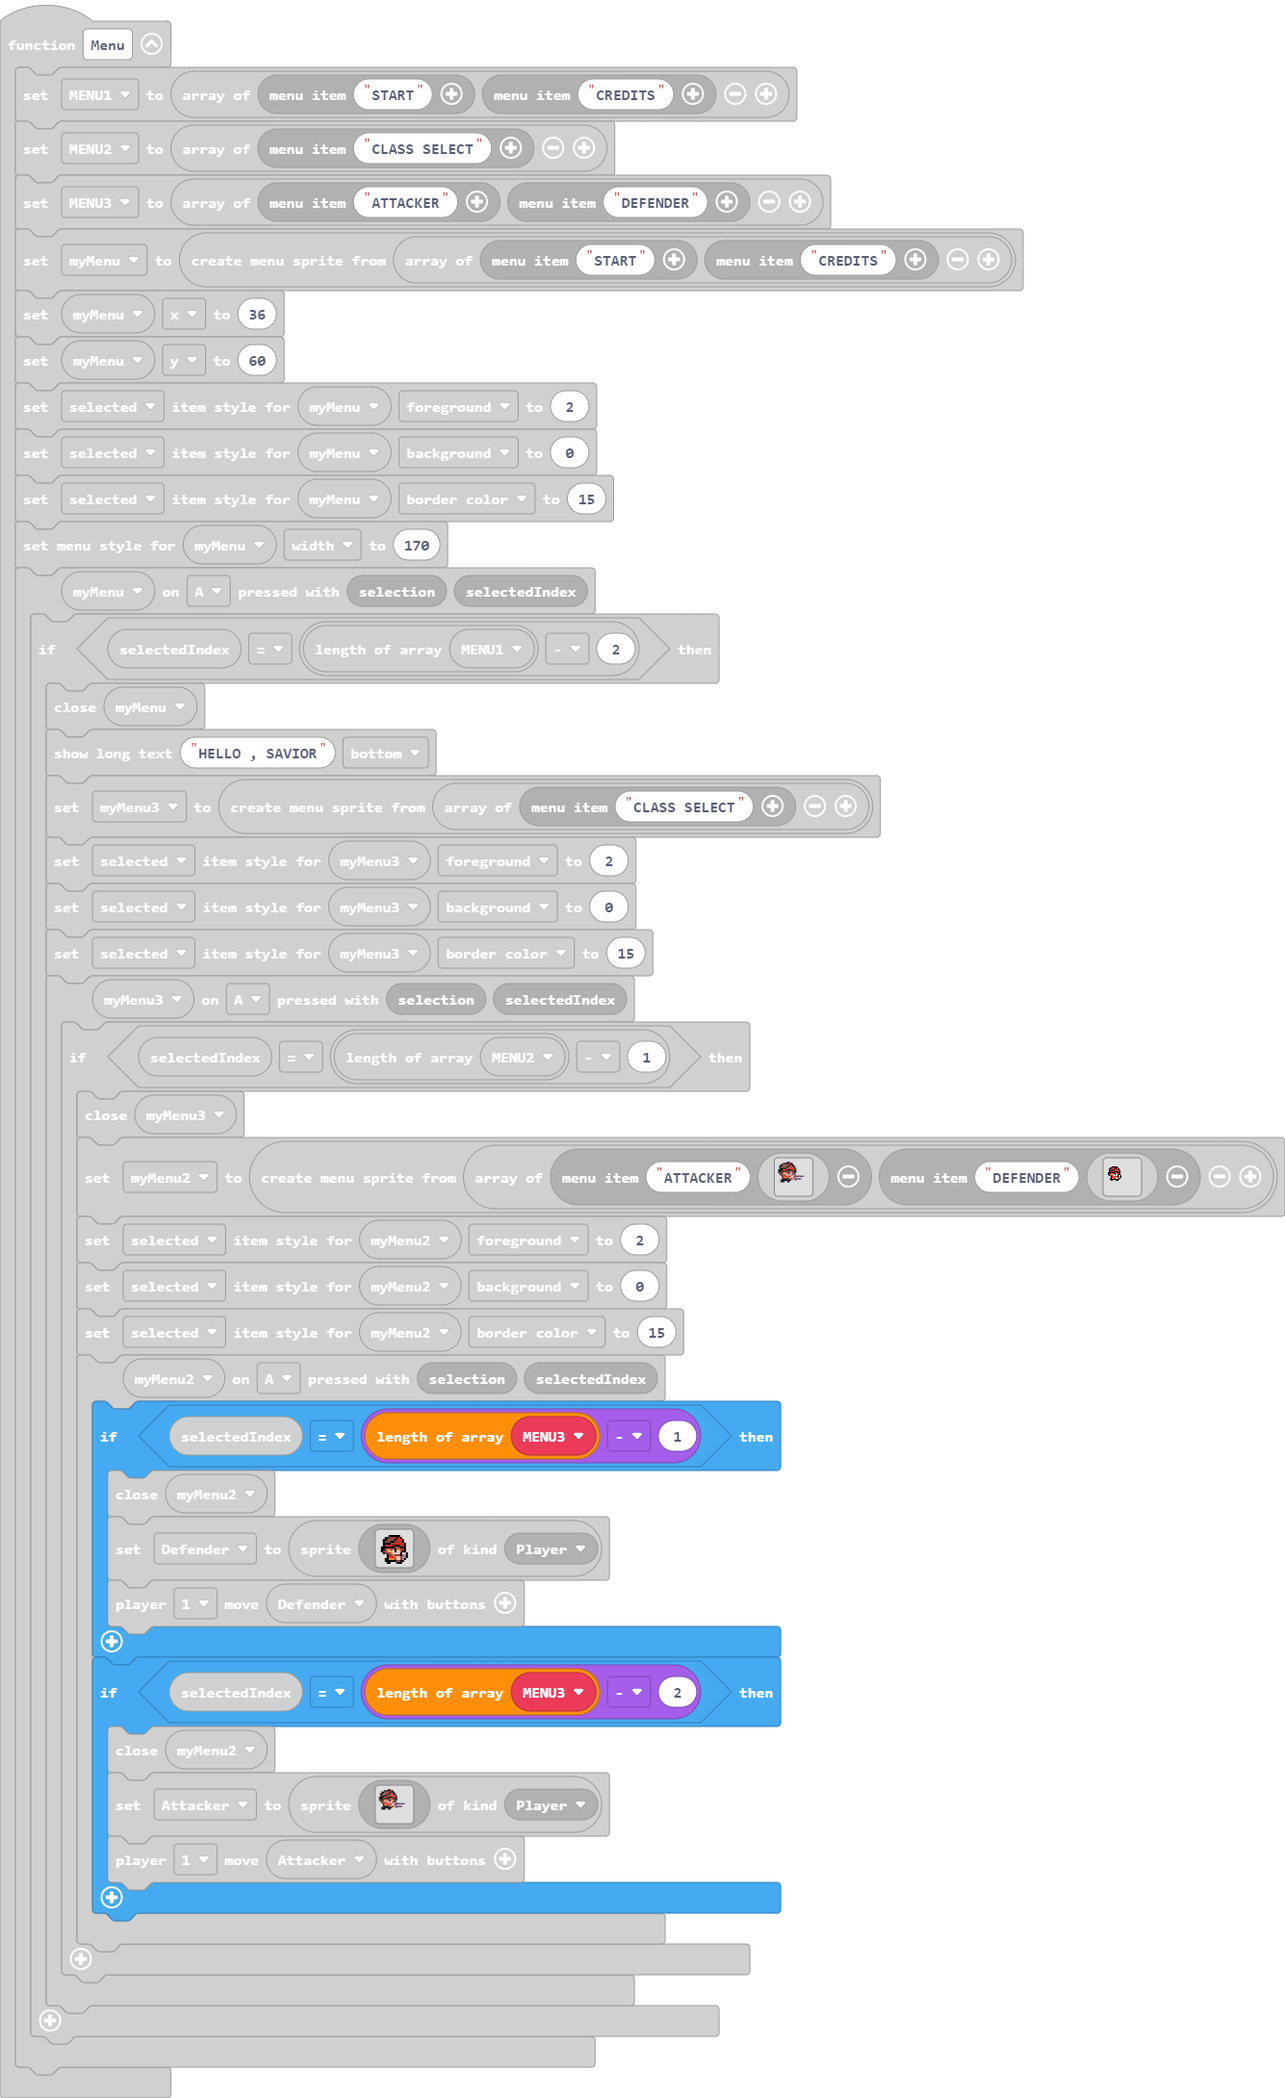
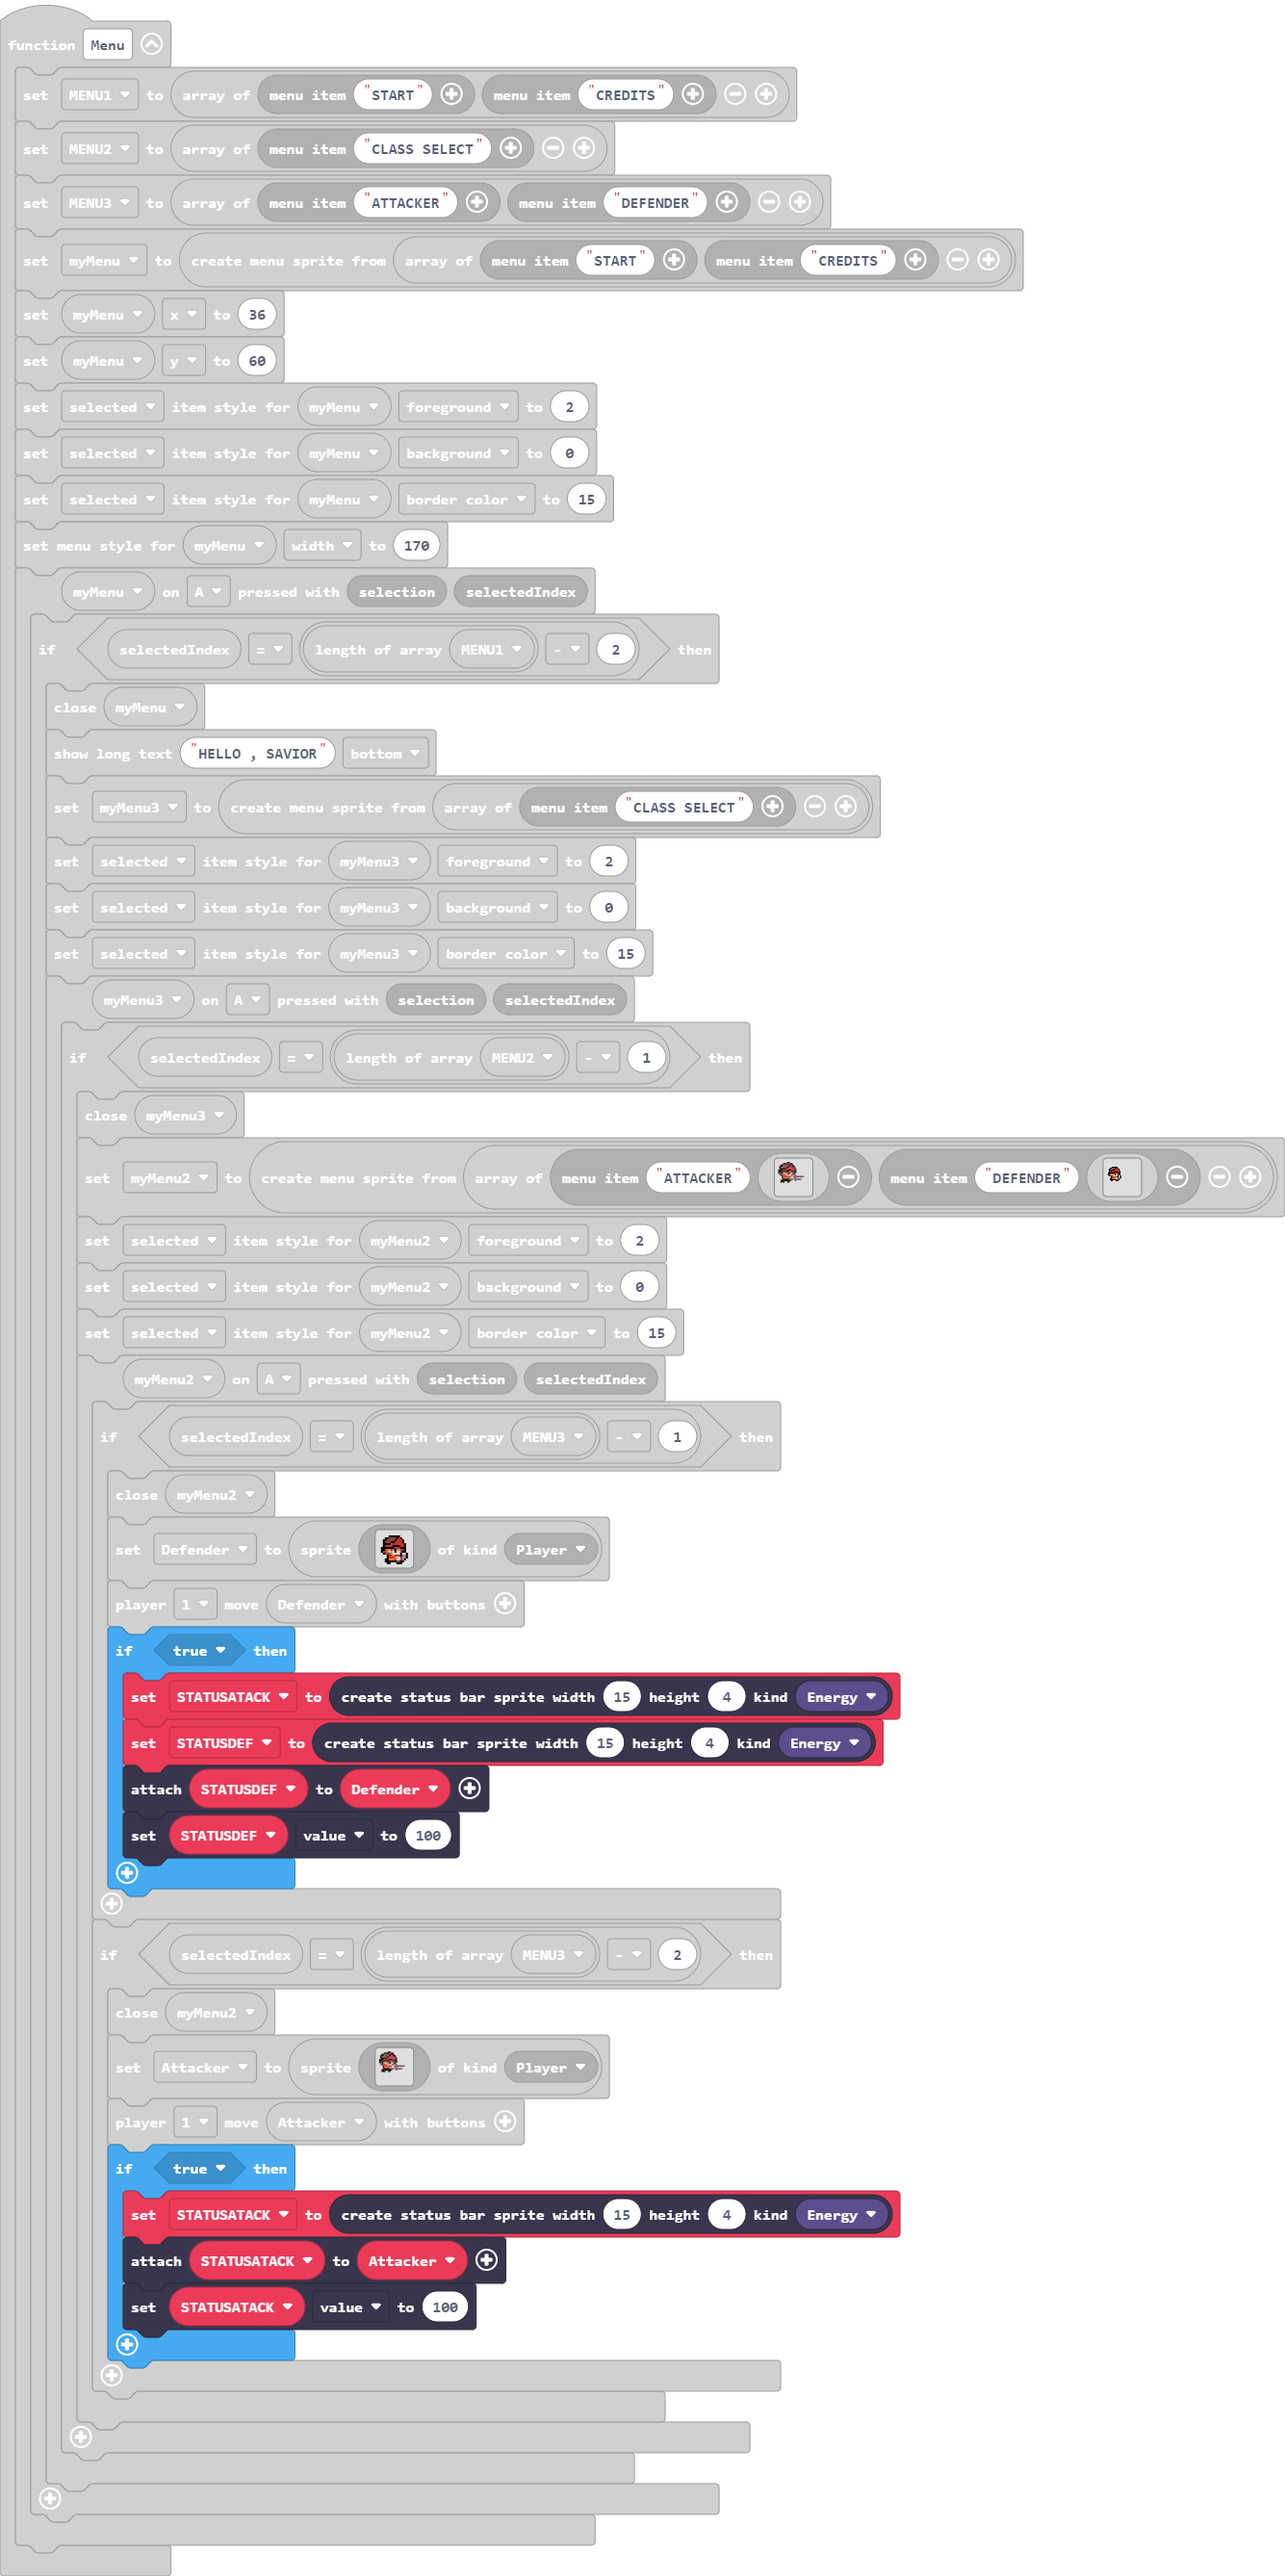
Update main.blocks, main.ts, tilemap.g.jres, tilemap.g.ts

diff --git a/main.ts b/main.ts
@@ -96,6 +96,12 @@ function Menu () {
                                 . . . . f f . . . f f f . . . . 
                                 `, SpriteKind.Player)
                             controller.player1.moveSprite(Defender)
+                            if (true) {
+                                STATUSATACK = statusbars.create(15, 4, StatusBarKind.Energy)
+                                STATUSDEF = statusbars.create(15, 4, StatusBarKind.Energy)
+                                STATUSDEF.attachToSprite(Defender)
+                                STATUSDEF.value = 100
+                            }
                         }
                         if (selectedIndex == MENU3.length - 2) {
                             myMenu2.close()
@@ -126,6 +132,11 @@ function Menu () {
                                 ........................
                                 `, SpriteKind.Player)
                             controller.player1.moveSprite(Attacker)
+                            if (true) {
+                                STATUSATACK = statusbars.create(15, 4, StatusBarKind.Energy)
+                                STATUSATACK.attachToSprite(Attacker)
+                                STATUSATACK.value = 100
+                            }
                         }
                     })
                 }
@@ -134,6 +145,8 @@ function Menu () {
     })
 }
 let Attacker: Sprite = null
+let STATUSDEF: StatusBarSprite = null
+let STATUSATACK: StatusBarSprite = null
 let Defender: Sprite = null
 let myMenu2: miniMenu.MenuSprite = null
 let myMenu3: miniMenu.MenuSprite = null

diff --git a/tilemap.g.ts b/tilemap.g.ts
@@ -24,6 +24,25 @@ namespace myTiles {
 . . . . . . . . . . . . . . . . 
 . . . . . . . . . . . . . . . . 
 `, [], -Infinity);
+            case "level2":
+            case "level2":return tiles.createTilemap(hex`1000100000000000000000000000000000000000000000000000000000000000000000000000000000000000000000000000000000000000000000000000000000000000000000000000000000000000000000000000000000000000000000000000000000000000000000000000000000000000000000000000000000000000000000000000000000000000000000000000000000000000000000000000000000000000000000000000000000000000000000000000000000000000000000000000000000000000000000000000000000000000000000000000000000000000000000000000000000000000000000000000000000000000000000000000000000000000`, img`
+. . . . . . . . . . . . . . . . 
+. . . . . . . . . . . . . . . . 
+. . . . . . . . . . . . . . . . 
+. . . . . . . . . . . . . . . . 
+. . . . . . . . . . . . . . . . 
+. . . . . . . . . . . . . . . . 
+. . . . . . . . . . . . . . . . 
+. . . . . . . . . . . . . . . . 
+. . . . . . . . . . . . . . . . 
+. . . . . . . . . . . . . . . . 
+. . . . . . . . . . . . . . . . 
+. . . . . . . . . . . . . . . . 
+. . . . . . . . . . . . . . . . 
+. . . . . . . . . . . . . . . . 
+. . . . . . . . . . . . . . . . 
+. . . . . . . . . . . . . . . . 
+`, [myTiles.transparency16], TileScale.Sixteen);
         }
         return null;
     })
